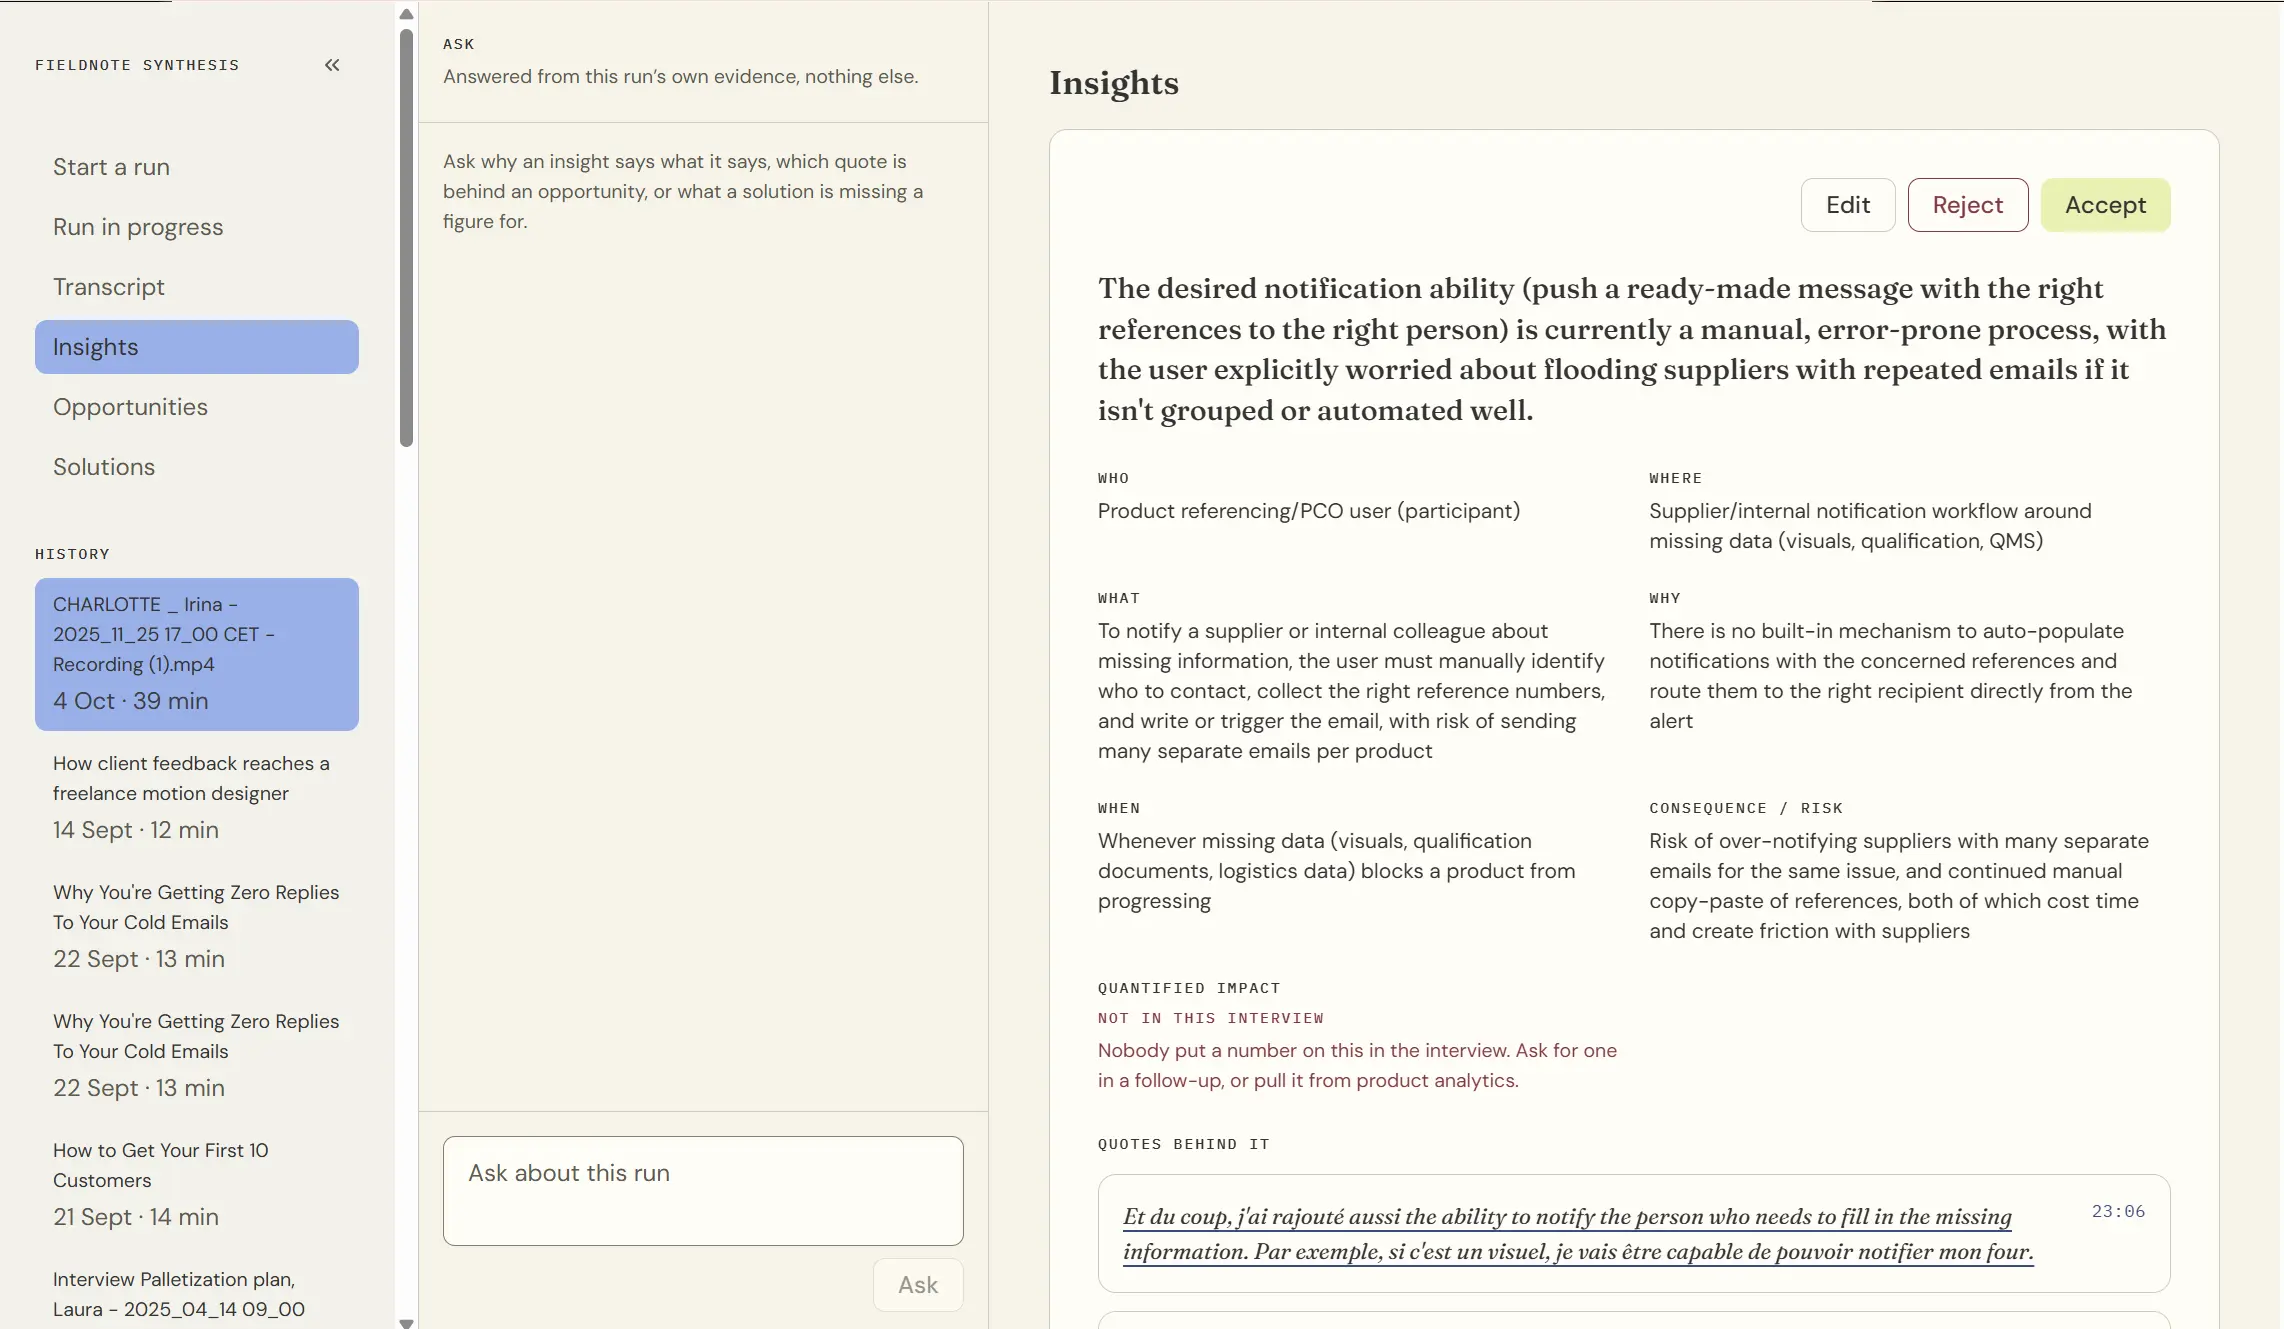
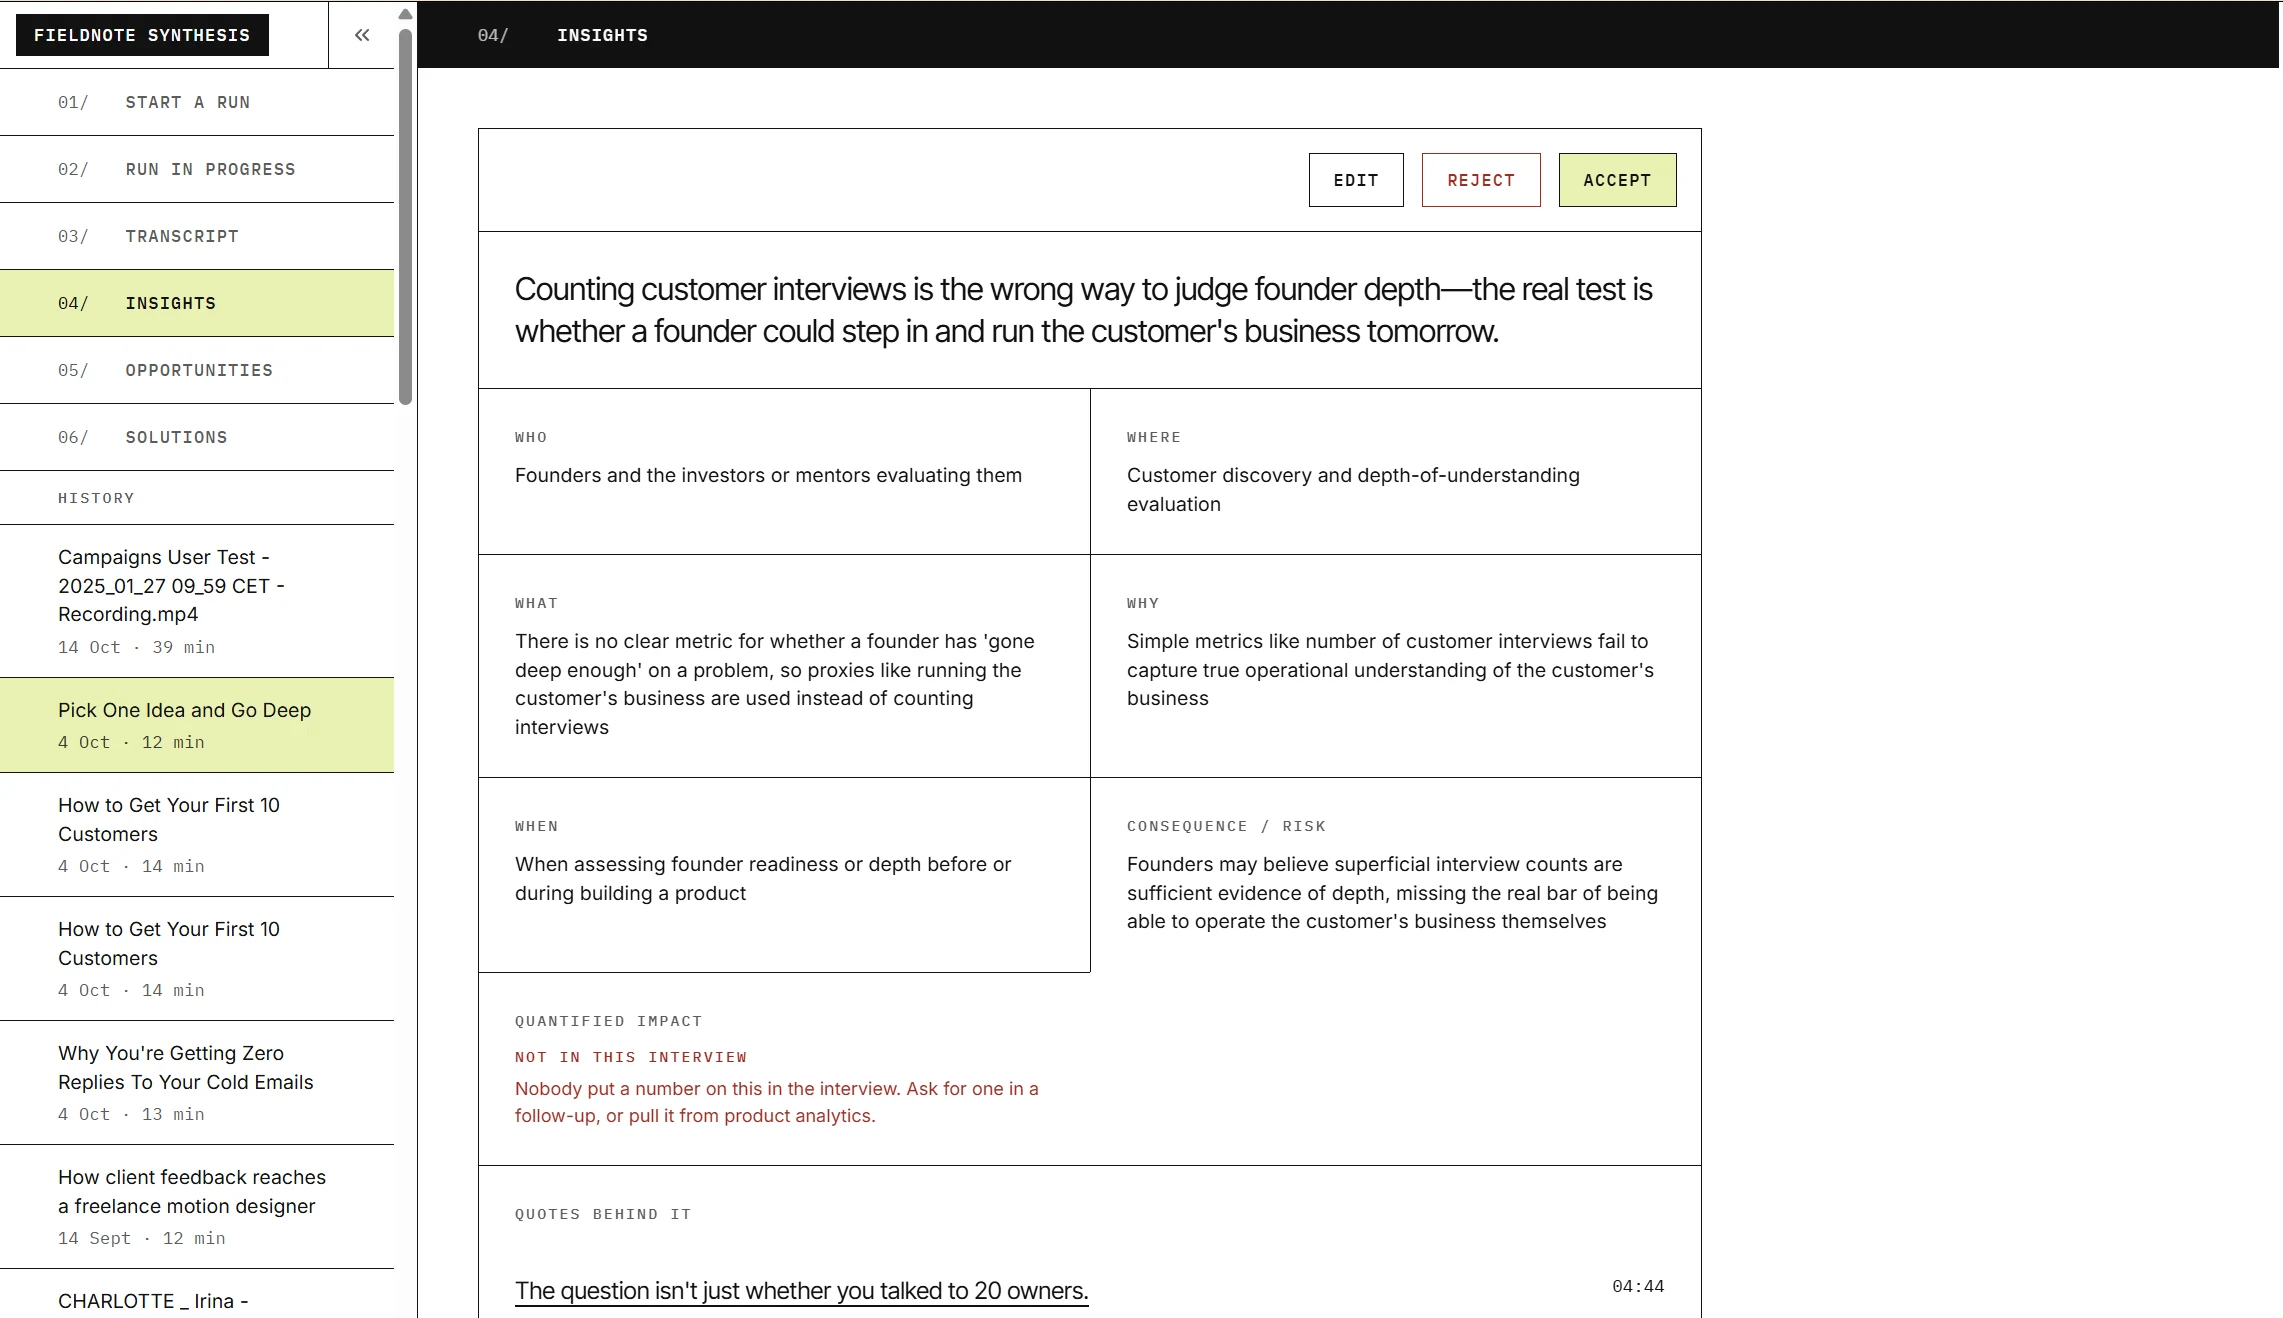
Fieldnote Synthesis: new block 01 screenshot and live app link
Claude-Session: https://claude.ai/code/session_0138mepRwbnxCAQTxFXSZvsg

diff --git a/index.html b/index.html
@@ -424,7 +424,7 @@ WORKFLOW&nbsp;<span style="color: rgb(154, 31, 35); font-size: clamp(44px, 7.4vw
     <div style="flex:0 1 200px;font-family:var(--mono2);font-size:12px;color:var(--mute)"><a href="#/works">← Back to works</a></div>
     <div style="flex:1 1 480px;min-width:0">
       <h1 style="font-family:var(--disp);font-weight:700;text-transform:uppercase;font-size:clamp(44px,6.6vw,96px);line-height:.9;margin:0;letter-spacing:-.01em">Fieldnote Synthesis: research synthesis where every claim can be traced to a timestamp</h1>
-      <div style="margin-top:12px;font-family:var(--mono2);font-size:12px;color:var(--mute)">Role: designed and built end to end &nbsp;·&nbsp; <b style="font-weight:500;color:var(--ink2)">Personal build</b></div>
+      <div style="margin-top:12px;font-family:var(--mono2);font-size:12px;color:var(--mute)">Role: designed and built end to end &nbsp;·&nbsp; <b style="font-weight:500;color:var(--ink2)">Personal build</b> &nbsp;·&nbsp; <a href="https://fieldnote-synthesis.netlify.app/" target="_blank" rel="noopener" style="color:var(--dt);text-decoration:underline;text-underline-offset:2px">fieldnote-synthesis.netlify.app</a></div>
     </div>
   </div>
 
@@ -436,6 +436,7 @@ WORKFLOW&nbsp;<span style="color: rgb(154, 31, 35); font-size: clamp(44px, 7.4vw
         <dt style="font-family:var(--mono2);font-size:12px;color:var(--mute)">Role</dt><dd style="margin:0 0 12px;color:var(--ink)">Designer &amp; builder, solo</dd>
         <dt style="font-family:var(--mono2);font-size:12px;color:var(--mute)">Type</dt><dd style="margin:0 0 12px;color:var(--ink)">Personal build</dd>
         <dt style="font-family:var(--mono2);font-size:12px;color:var(--mute)">Stack</dt><dd style="margin:0 0 12px;color:var(--ink)">React + TypeScript · shadcn/ui · design tokens · Anthropic + Whisper in Netlify Functions</dd>
+        <dt style="font-family:var(--mono2);font-size:12px;color:var(--mute)">Live</dt><dd style="margin:0 0 12px;color:var(--ink);word-break:break-word"><a href="https://fieldnote-synthesis.netlify.app/" target="_blank" rel="noopener" style="text-decoration:underline;text-underline-offset:2px;text-decoration-color:var(--rule)">fieldnote-synthesis.netlify.app</a></dd>
         <dt style="font-family:var(--mono2);font-size:12px;color:var(--mute)">Tags</dt>
         <dd style="margin:0;color:var(--ink)">
           <ul style="display:flex;flex-wrap:wrap;gap:6px;margin:6px 0 0;padding:0;list-style:none">
